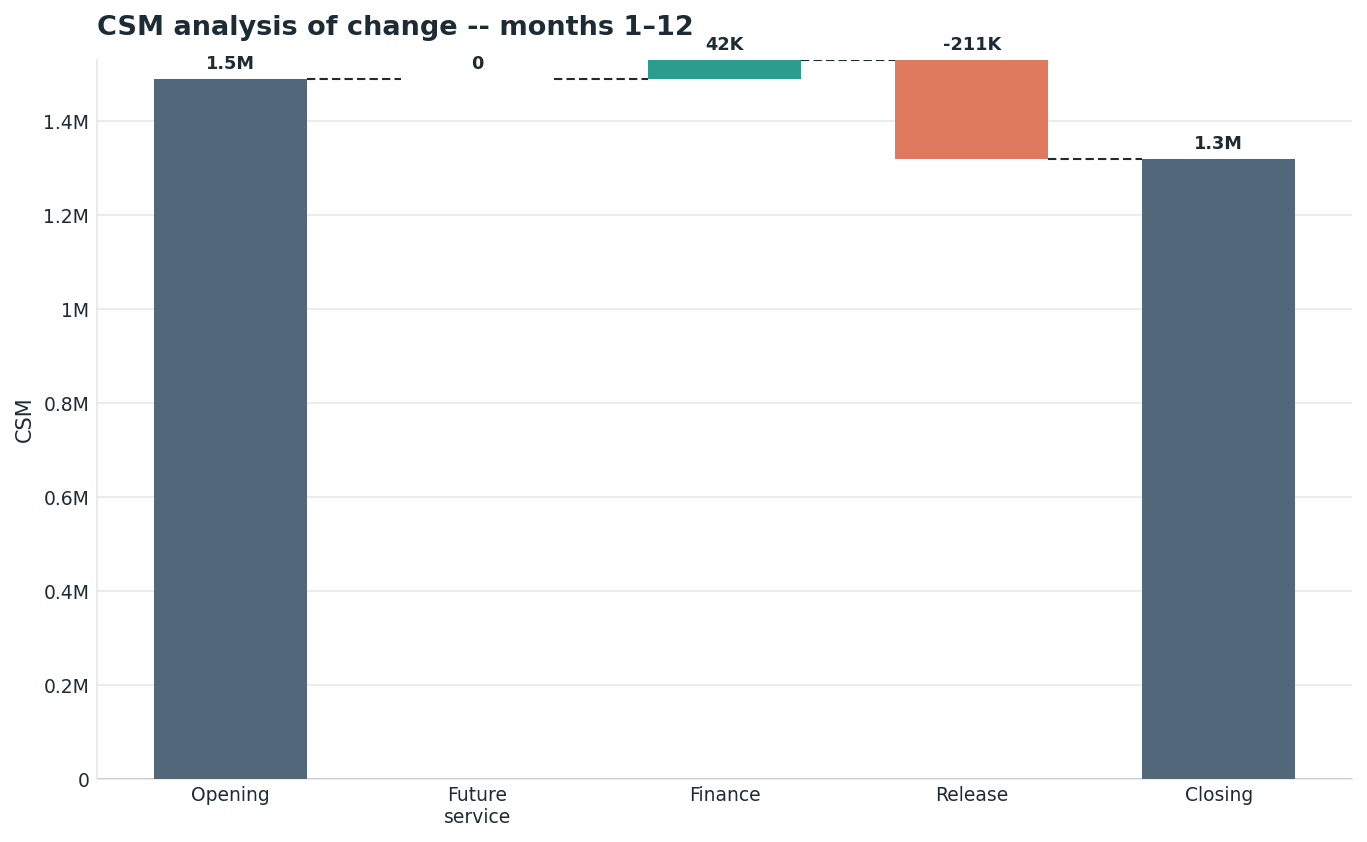
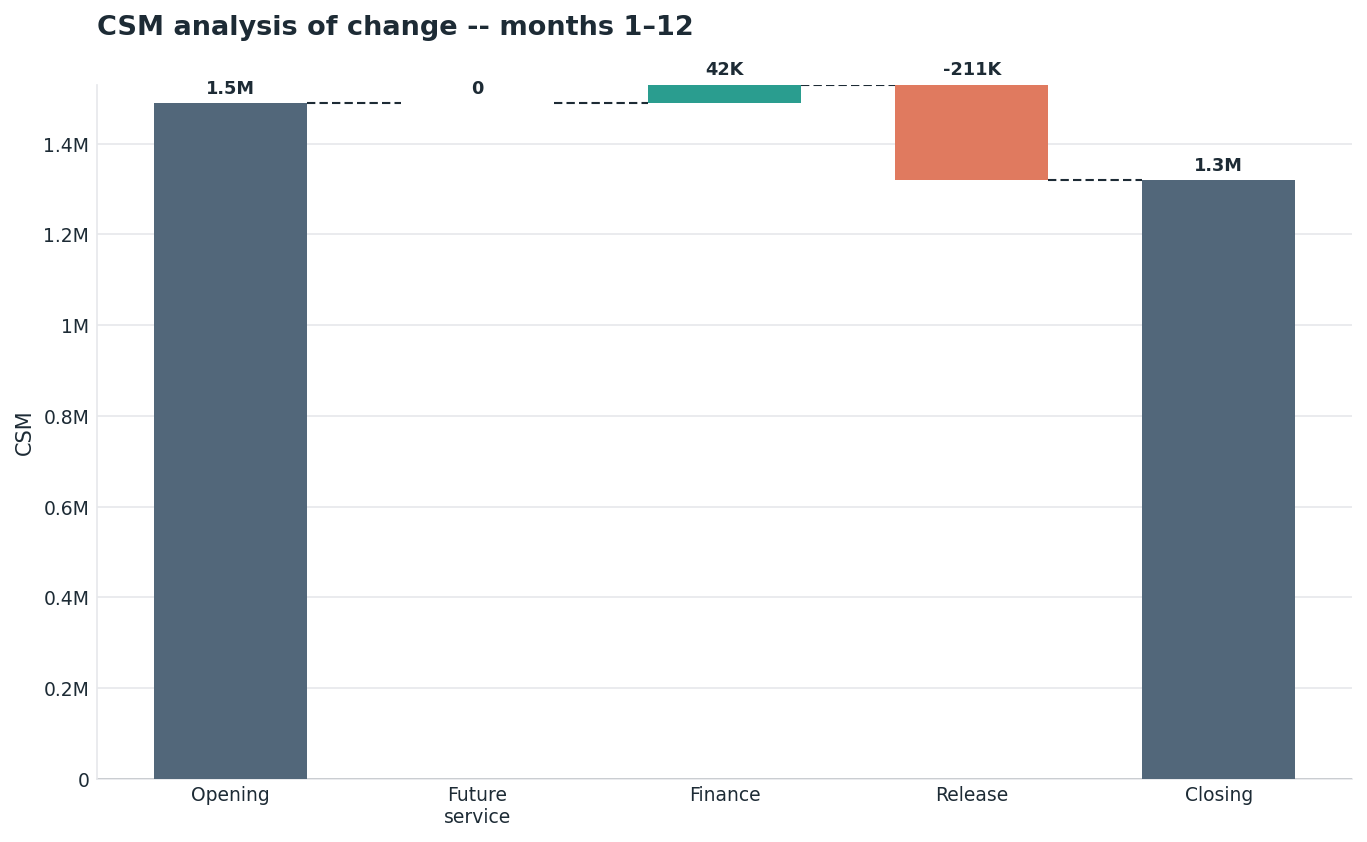
fix: more title clearance on the analysis-of-change waterfall (pad 12→24)
The waterfall draws bold value labels above each bar, so the left title
("CSM analysis of change -- months 1-N") sat right on top of them. Add a
`title_pad` knob to the shared `_finish` (default 12, unchanged for the
line/area charts) and give the waterfall pad=24. Regenerate the embedded
docs image.

diff --git a/src/fastcashflow/plots.py b/src/fastcashflow/plots.py
@@ -122,11 +122,11 @@ def _axes(ax, figsize: tuple[float, float] = (9.0, 5.5)):
     return ax
 
 
-def _finish(ax, title, *, xlabel=None, ylabel=None, money_axis="y"):
+def _finish(ax, title, *, xlabel=None, ylabel=None, money_axis="y", title_pad=12):
     """Apply the fastcashflow house style to ``ax``."""
     ink = _COLOR["ink"]
     ax.set_title(title, fontsize=13, fontweight="bold", color=ink,
-                 loc="left", pad=12)
+                 loc="left", pad=title_pad)
     if xlabel:
         ax.set_xlabel(xlabel, fontsize=10, color=ink)
     if ylabel:
@@ -325,7 +325,9 @@ def plot_analysis_of_change(reconciliation: Reconciliation, *,
     if title is None:
         title = (f"{component.upper()} analysis of change "
                  f"-- months {r.month_start + 1}–{r.month_end}")
-    _finish(ax, title, ylabel=component.upper())
+    # Waterfalls carry bold value labels above the bars, so the title needs
+    # more clearance than the line charts (default pad=12).
+    _finish(ax, title, ylabel=component.upper(), title_pad=24)
     return ax
 
 